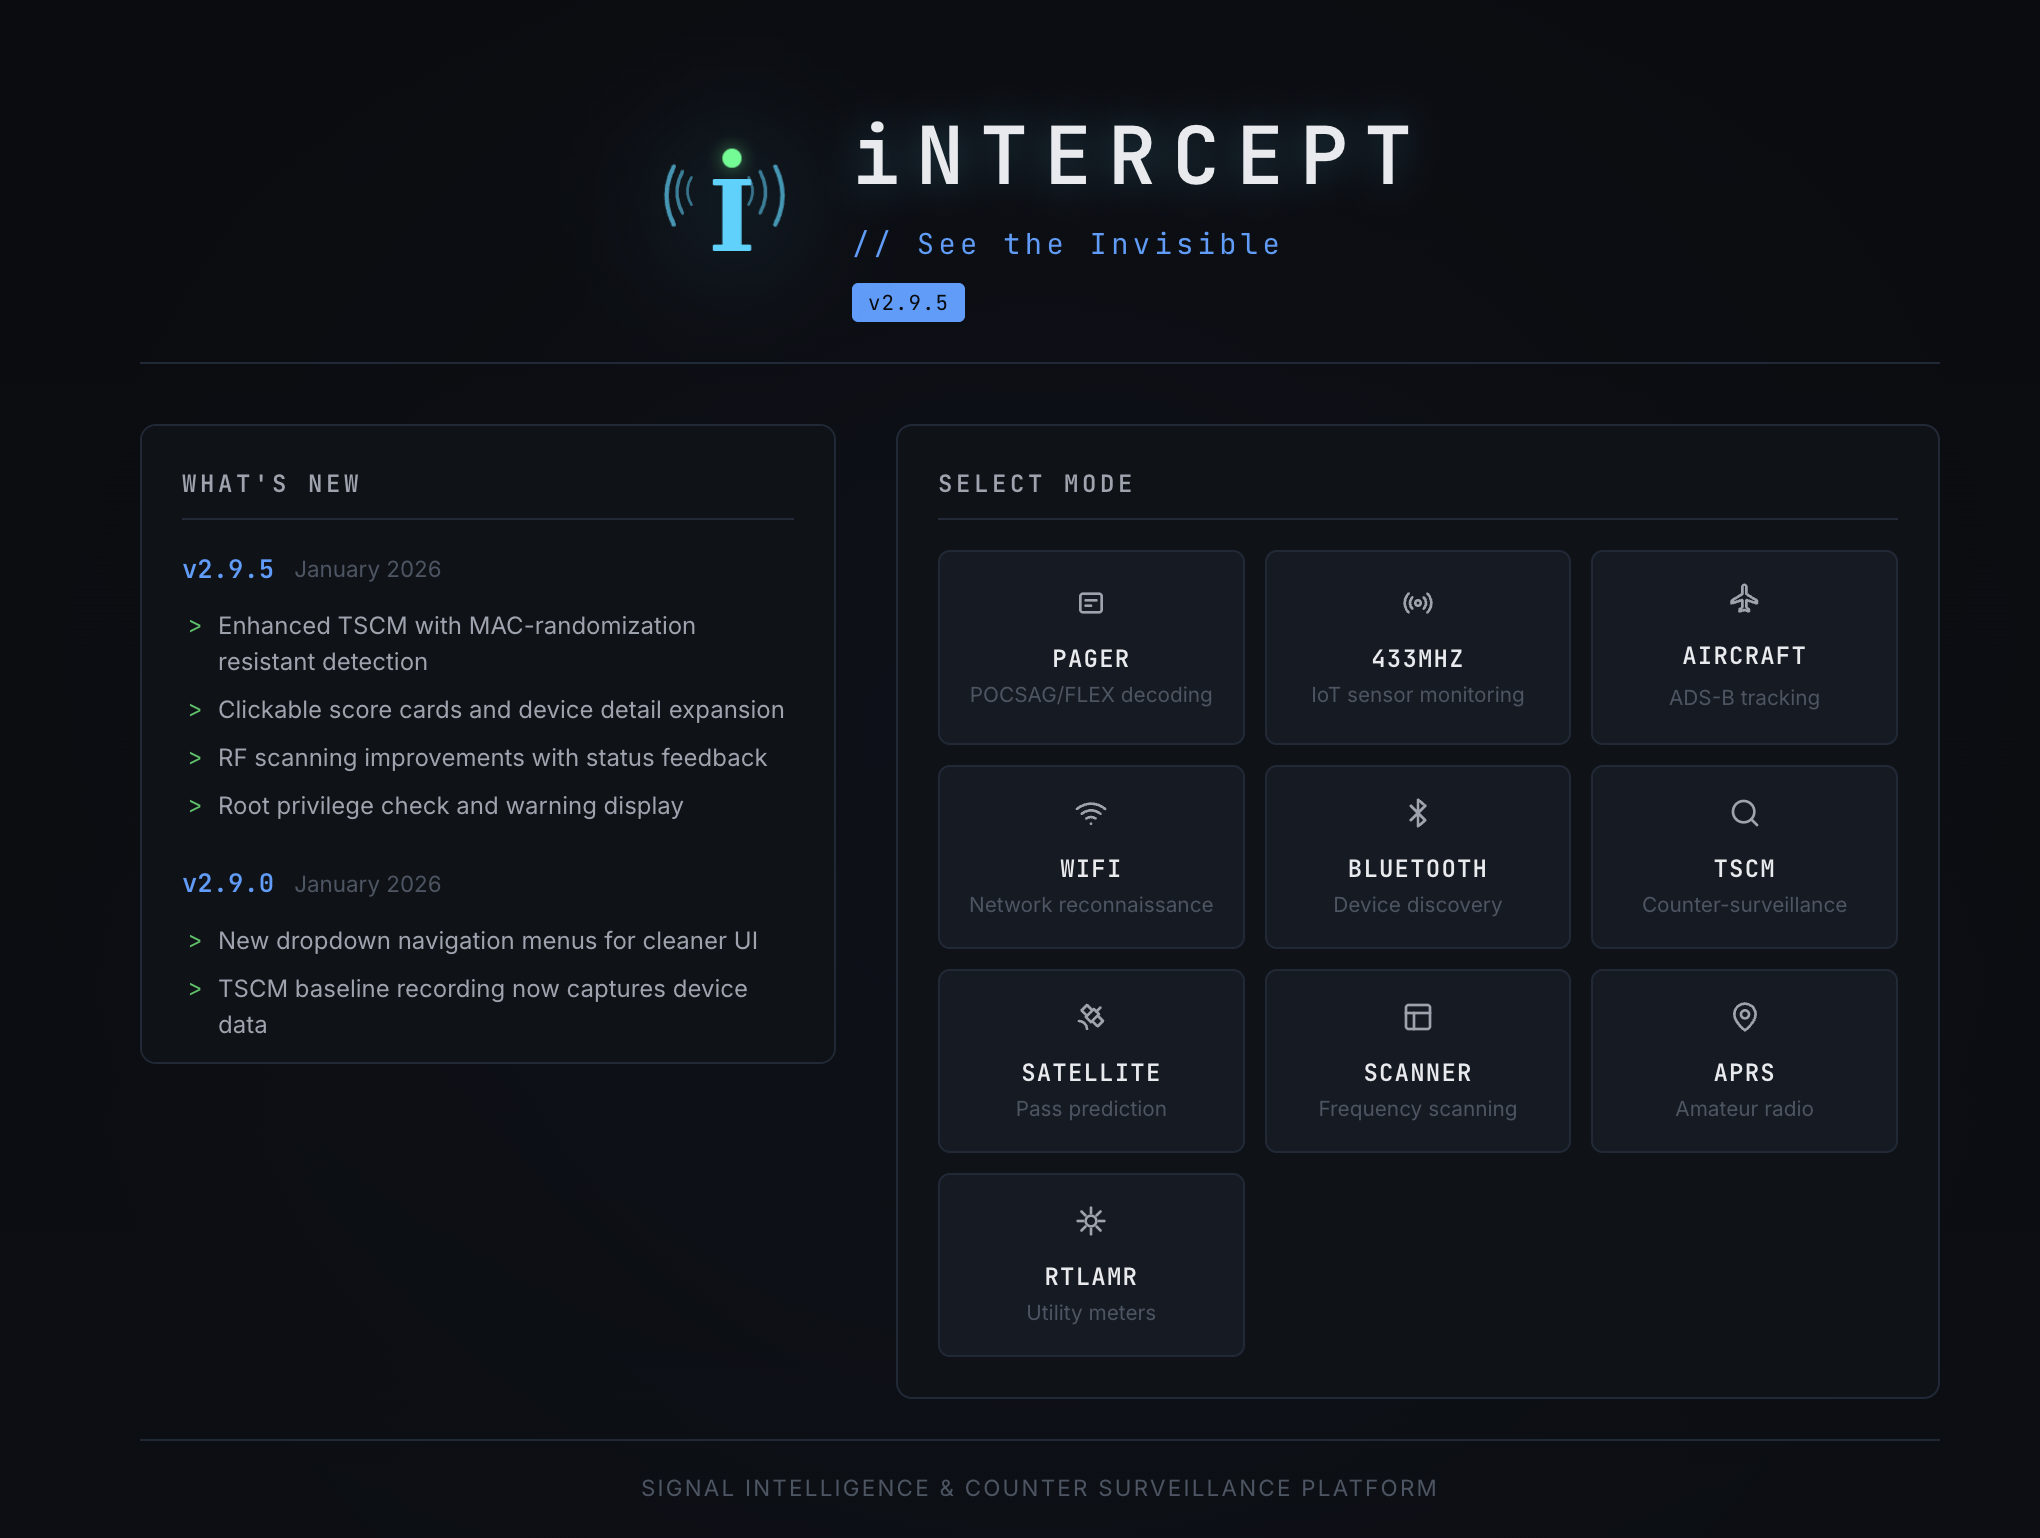
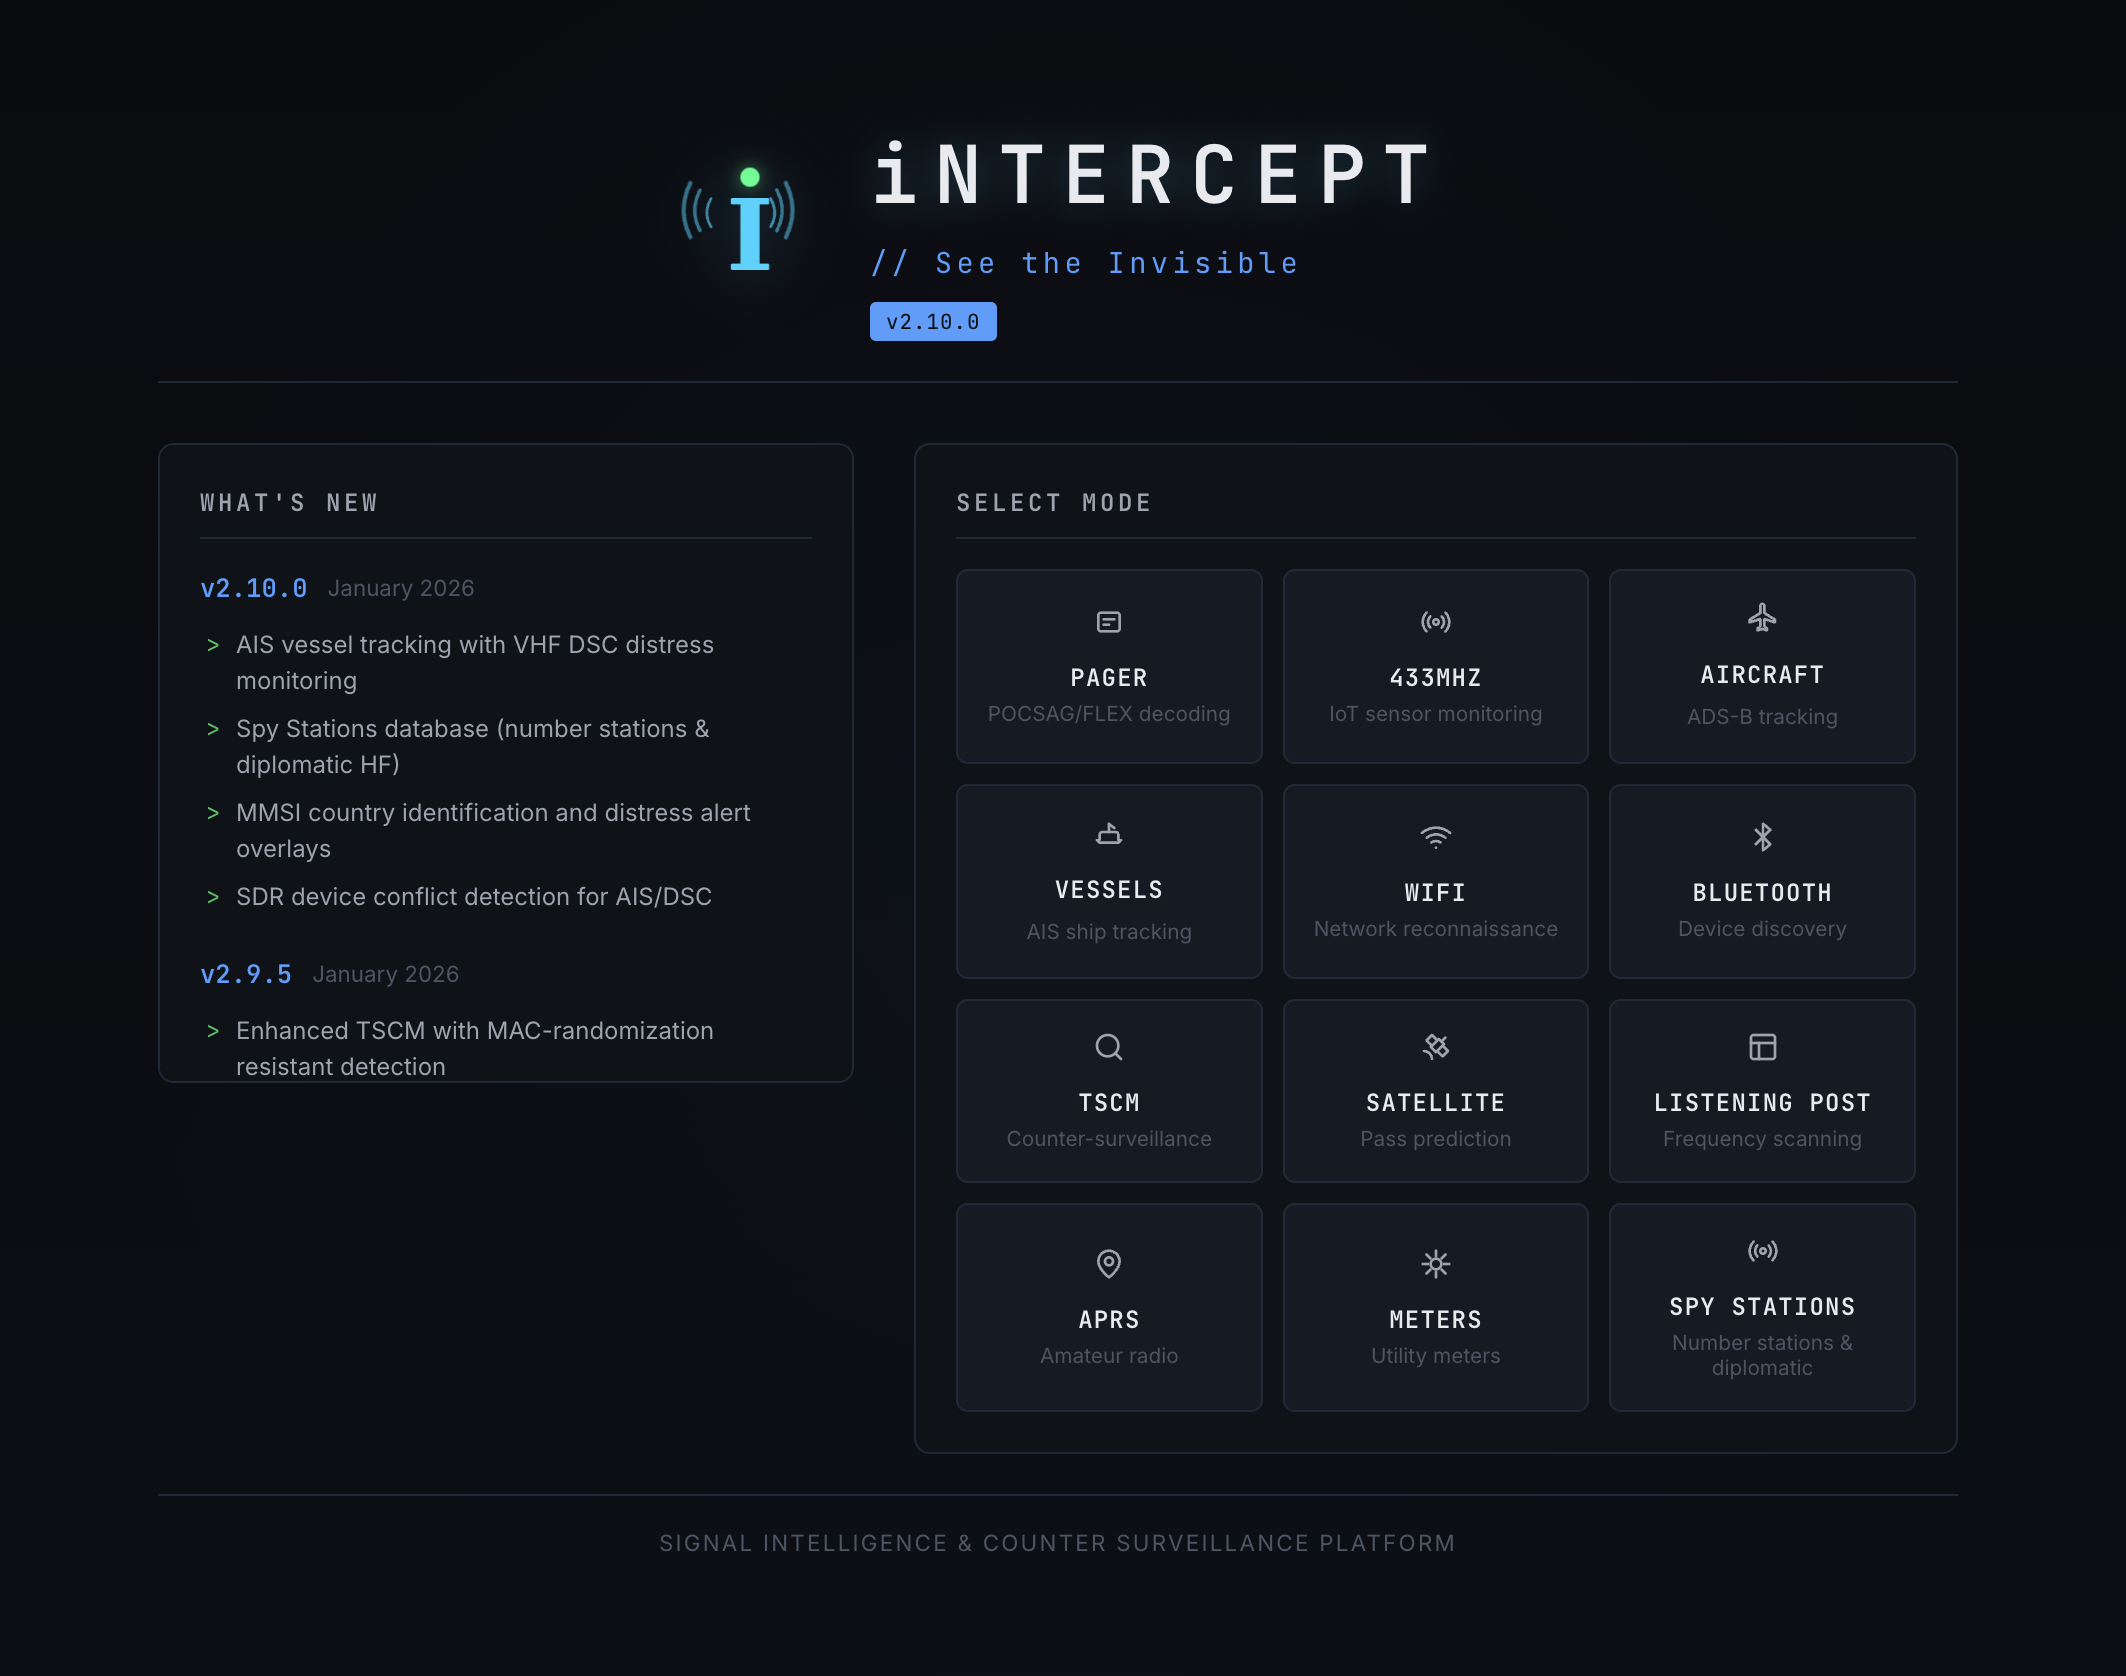
docs: Add Remote Agents documentation and updated screenshots
- Update dashboard screenshot to v2.10.0
- Add Remote Agents screenshot to docs gallery
- Add Remote Agents feature card to GitHub Pages
- Add navigation links to DISTRIBUTED_AGENTS.md
- Add Remote Agents section to FEATURES.md and USAGE.md
- Link distributed agents docs from main README

diff --git a/docs/index.html b/docs/index.html
@@ -18,6 +18,7 @@
                 <a href="#features">Features</a>
                 <a href="#screenshots">Screenshots</a>
                 <a href="#installation">Install</a>
+                <a href="https://github.com/smittix/intercept/blob/main/docs/DISTRIBUTED_AGENTS.md">Remote Agents</a>
                 <a href="https://github.com/smittix/intercept" class="nav-btn" target="_blank">GitHub</a>
             </div>
         </div>
@@ -123,6 +124,12 @@
                     <h3>Spy Stations</h3>
                     <p>Number stations and diplomatic HF network database. Frequencies, schedules, and background info from priyom.org.</p>
                 </div>
+
+                <div class="feature-card">
+                    <div class="feature-icon">🌐</div>
+                    <h3>Remote Agents</h3>
+                    <p>Distributed signal intelligence with remote sensor nodes. Deploy agents across multiple locations and aggregate data to a central controller.</p>
+                </div>
             </div>
         </div>
     </section>
@@ -160,6 +167,10 @@
                 <div class="screenshot-item">
                     <img src="images/tscm-detail.png" alt="Device Detail Dialog">
                     <span class="screenshot-label">Device Analysis</span>
+                </div>
+                <div class="screenshot-item">
+                    <img src="images/remote-agents.png" alt="Remote Agents Management">
+                    <span class="screenshot-label">Remote Agents</span>
                 </div>
             </div>
         </div>
@@ -255,7 +266,8 @@ docker compose up -d</code></pre>
                 <div class="footer-links">
                     <a href="https://github.com/smittix/intercept" target="_blank">GitHub</a>
                     <a href="https://discord.gg/EyeksEJmWE" target="_blank">Discord</a>
-                    <a href="USAGE.html">Documentation</a>
+                    <a href="https://github.com/smittix/intercept/blob/main/docs/USAGE.md">Documentation</a>
+                    <a href="https://github.com/smittix/intercept/blob/main/docs/DISTRIBUTED_AGENTS.md">Remote Agents</a>
                 </div>
             </div>
             <div class="footer-bottom">

diff --git a/docs/FEATURES.md b/docs/FEATURES.md
@@ -165,6 +165,35 @@ Technical Surveillance Countermeasures (TSCM) screening for detecting wireless s
 - No cryptographic de-randomization
 - Passive screening only (no active probing by default)
 
+## Remote Agents (Distributed SIGINT)
+
+Deploy lightweight sensor nodes across multiple locations and aggregate data to a central controller.
+
+### Architecture
+- **Hub-and-spoke model** - Central controller with multiple remote agents
+- **Push and Pull modes** - Agents can push data automatically or respond to on-demand requests
+- **API key authentication** - Secure communication between agents and controller
+
+### Agent Features
+- **Standalone deployment** - Run on Raspberry Pi, mini PCs, or any Linux device with SDR
+- **All modes supported** - Pager, sensor, ADS-B, AIS, WiFi, Bluetooth, and more
+- **GPS integration** - Automatic location tagging from USB GPS receivers
+- **Multi-SDR support** - Run multiple modes simultaneously on agents with multiple SDRs
+- **Capability discovery** - Controller auto-detects available modes and devices
+
+### Controller Features
+- **Agent management UI** - Register, test, and remove agents from `/controller/manage`
+- **Real-time status** - Health monitoring with online/offline indicators
+- **Unified data stream** - Aggregate data from all agents via SSE
+- **Dashboard integration** - Agent selector in ADS-B, AIS, and main dashboards
+- **Device conflict detection** - Smart warnings when SDR is in use
+
+### Use Cases
+- **Wide-area monitoring** - Cover larger geographic areas with distributed sensors
+- **Remote installations** - Deploy sensors in locations without direct access
+- **Redundancy** - Multiple nodes for reliable coverage
+- **Triangulation** - Use multiple GPS-enabled agents for signal location
+
 ## User Interface
 
 - **Mode-specific header stats** - real-time badges showing key metrics per mode

diff --git a/docs/USAGE.md b/docs/USAGE.md
@@ -130,6 +130,58 @@ docker compose up -d
 3. Choose a category (Amateur, Weather, ISS, Starlink, etc.)
 4. Select satellites to add
 
+## Remote Agents (Distributed SIGINT)
+
+Deploy lightweight sensor nodes across multiple locations and aggregate data to a central controller.
+
+### Setting Up an Agent
+
+1. **Install INTERCEPT** on the remote machine
+2. **Create config file** (`intercept_agent.cfg`):
+   ```ini
+   [agent]
+   name = sensor-node-1
+   port = 8020
+
+   [controller]
+   url = http://192.168.1.100:5050
+   api_key = your-secret-key
+   push_enabled = true
+
+   [modes]
+   pager = true
+   sensor = true
+   adsb = true
+   ```
+3. **Start the agent**:
+   ```bash
+   python intercept_agent.py --config intercept_agent.cfg
+   ```
+
+### Registering Agents in the Controller
+
+1. Navigate to `/controller/manage` in the main INTERCEPT instance
+2. Enter agent details:
+   - **Name**: Must match config file (e.g., `sensor-node-1`)
+   - **Base URL**: Agent address (e.g., `http://192.168.1.50:8020`)
+   - **API Key**: Must match config file
+3. Click "Register Agent"
+4. Use "Test" to verify connectivity
+
+### Using Remote Agents
+
+Once registered, agents appear in mode dropdowns:
+
+1. **Select agent** from the dropdown in supported modes
+2. **Start mode** - Commands are proxied to the remote agent
+3. **View data** - Data streams back to your browser via SSE
+
+### Multi-Agent Streaming
+
+Enable "Show All Agents" to aggregate data from all registered agents simultaneously.
+
+For complete documentation, see [Distributed Agents Guide](DISTRIBUTED_AGENTS.md).
+
 ## Configuration
 
 INTERCEPT can be configured via environment variables:

diff --git a/README.md b/README.md
@@ -37,6 +37,7 @@ Support the developer of this open-source project
 - **WiFi Scanning** - Monitor mode reconnaissance via aircrack-ng
 - **Bluetooth Scanning** - Device discovery and tracker detection
 - **Spy Stations** - Number stations and diplomatic HF network database
+- **Remote Agents** - Distributed SIGINT with remote sensor nodes
 
 ---
 
@@ -114,6 +115,7 @@ Most features work with a basic RTL-SDR dongle (RTL2832U + R820T2).
 ## Documentation
 
 - [Usage Guide](docs/USAGE.md) - Detailed instructions for each mode
+- [Distributed Agents](docs/DISTRIBUTED_AGENTS.md) - Remote sensor node deployment
 - [Hardware Guide](docs/HARDWARE.md) - SDR hardware and advanced setup
 - [Troubleshooting](docs/TROUBLESHOOTING.md) - Common issues and solutions
 - [Security](docs/SECURITY.md) - Network security and best practices
